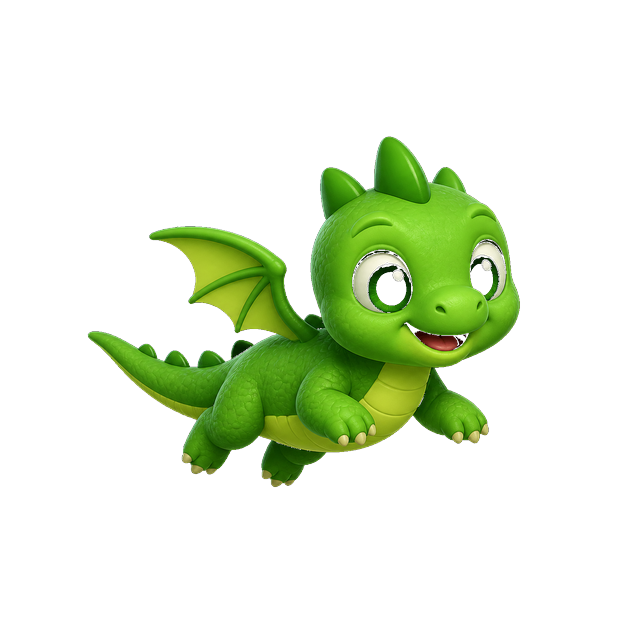
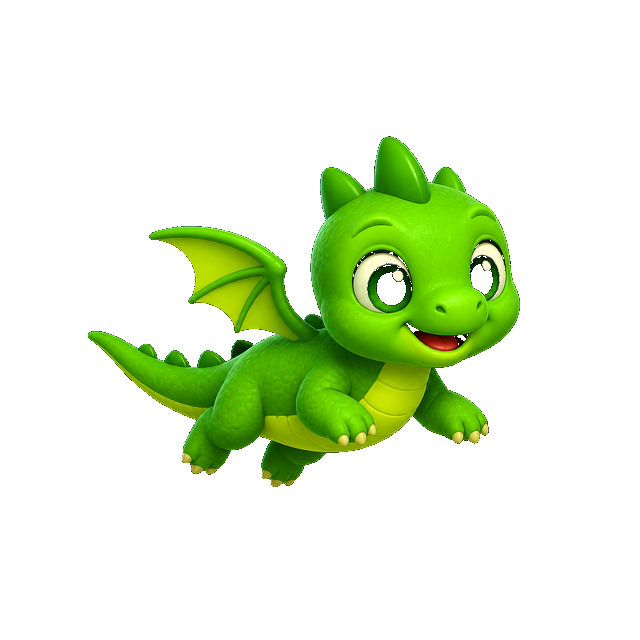
Fill dragon sprites solid and squash-stretch them with jump and fall.
Wings and crystals are opaque with stronger color; the body lags softly on flap.

diff --git a/index.html b/index.html
@@ -336,23 +336,27 @@ function paintDragon(g,d,pal,t,anim){
 var im=dragonImgs[spriteId(d)];
 if(!im||!im.complete||!im.naturalWidth)return;
 var flap=(anim&&anim.flap)||0;
-var w=118,h=118;
+var stretch=(anim&&anim.stretch)||0;
+var w=124,h=124;
 g.save();
-g.rotate(flap*0.05);
+/* soft body: stretch on jump, squash on fall, tiny wing tilt */
+g.scale(1-stretch*0.55, 1+stretch*0.7);
+g.rotate(flap*0.08 + stretch*0.12);
 var skin=pal||{};
-var tint=skin.body&&!(skin._natural);
+var tint=skin.body&&!skin._natural;
 if(getColor&&getColor().id==="natural")tint=false;
+g.imageSmoothingEnabled=true;
 if(tint){
   if(!paintDragon.buf){paintDragon.buf=document.createElement("canvas");paintDragon.buf.width=256;paintDragon.buf.height=256}
   var b=paintDragon.buf,bx=b.getContext("2d");
   bx.clearRect(0,0,256,256);
   bx.drawImage(im,0,0,256,256);
   bx.globalCompositeOperation="source-atop";
-  bx.fillStyle=skin.body;bx.globalAlpha=0.38;bx.fillRect(0,0,256,256);
+  bx.fillStyle=skin.body;bx.globalAlpha=0.55;bx.fillRect(0,0,256,256);
   bx.globalCompositeOperation="source-over";bx.globalAlpha=1;
-  g.drawImage(b,-w*0.48,-h*0.58,w,h);
+  g.drawImage(b,-w*0.48,-h*0.62,w,h);
 }else{
-  g.drawImage(im,-w*0.48,-h*0.58,w,h);
+  g.drawImage(im,-w*0.48,-h*0.62,w,h);
 }
 g.restore();
 }
@@ -361,7 +365,9 @@ function drawDragon(){
 var d=getDragon(),skin=getColor(),x=dragon.x,y=dragon.y;
 var S=(d.scale||.68)*1.22,t=performance.now()/1000;
 var pitch=Math.max(-.48,Math.min(.78,dragon.rot));
-var anim={flap:Math.sin(t*8.2),flapR:Math.sin(t*8.2+1.1),walk:Math.sin(t*5.8),pitch:pitch};
+var stretch=Math.max(-0.22,Math.min(0.28,-dragon.vy/780));
+stretch+=(dragon.stretch||0);
+var anim={flap:Math.sin(t*10.5)*Math.max(0.25,wing),flapR:0,walk:0,pitch:pitch,stretch:stretch};
 ctx.save();
 ctx.translate(x,y);
 ctx.rotate(pitch+Math.sin(t*3.8)*.012);
